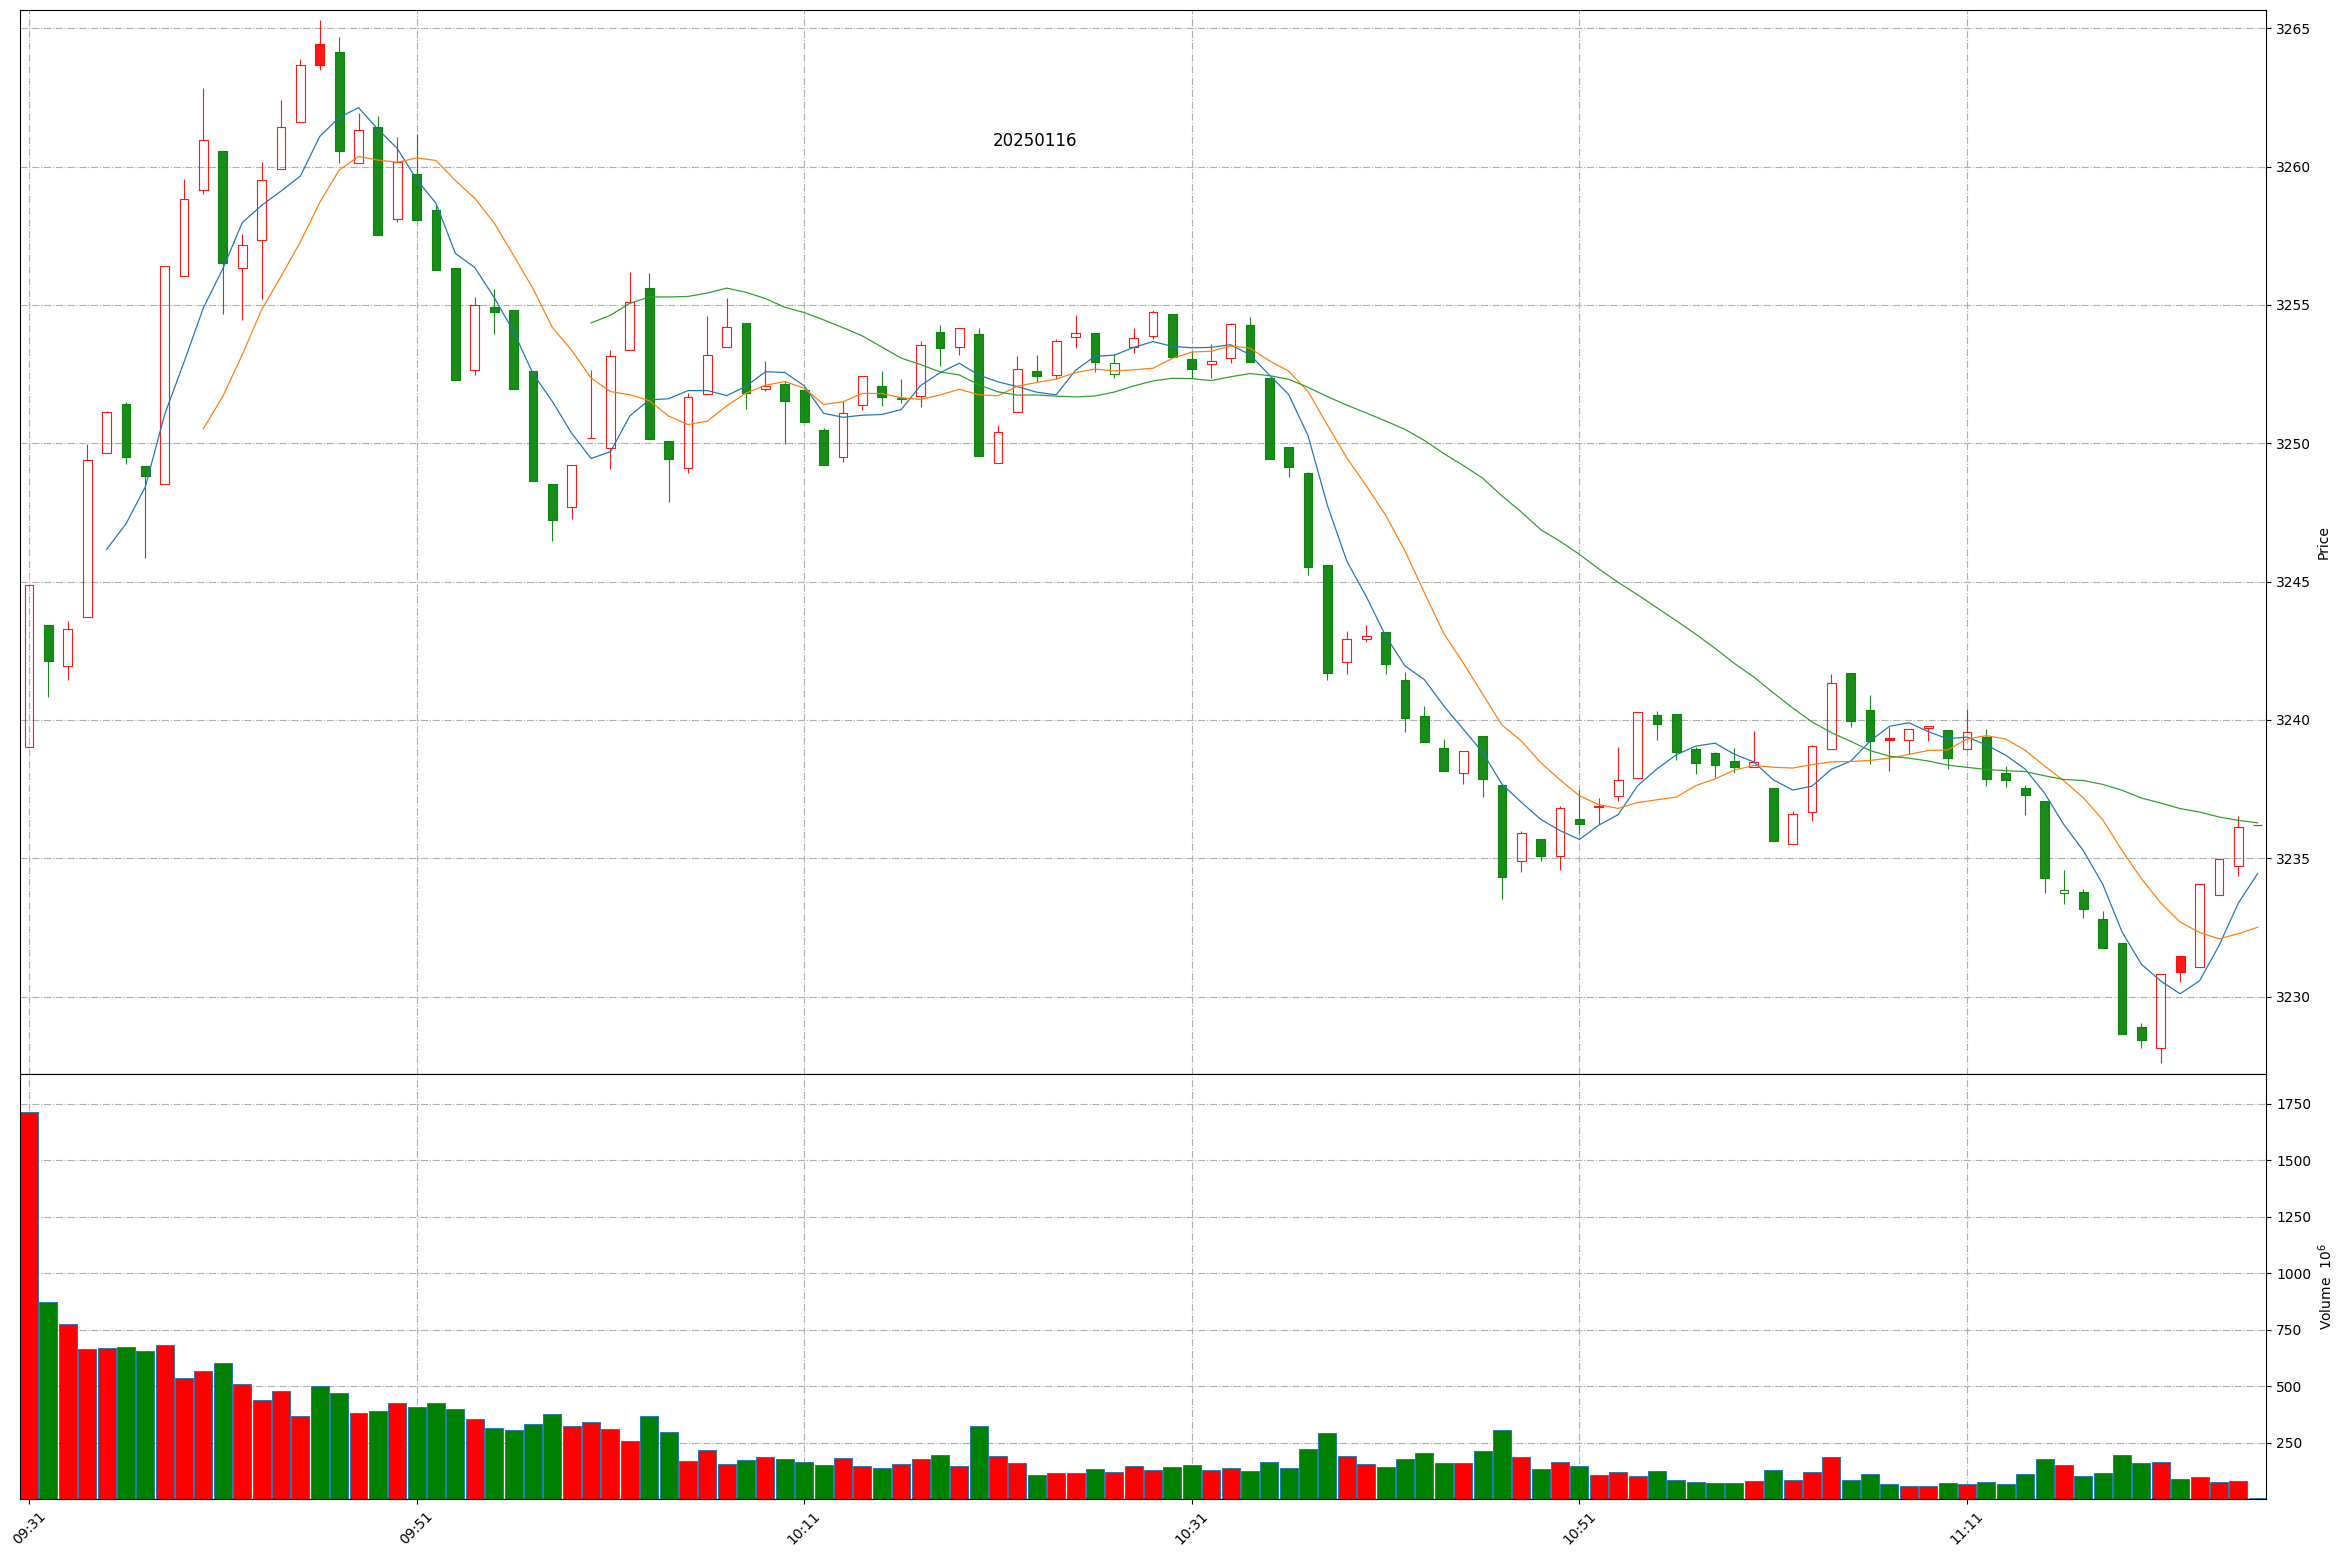
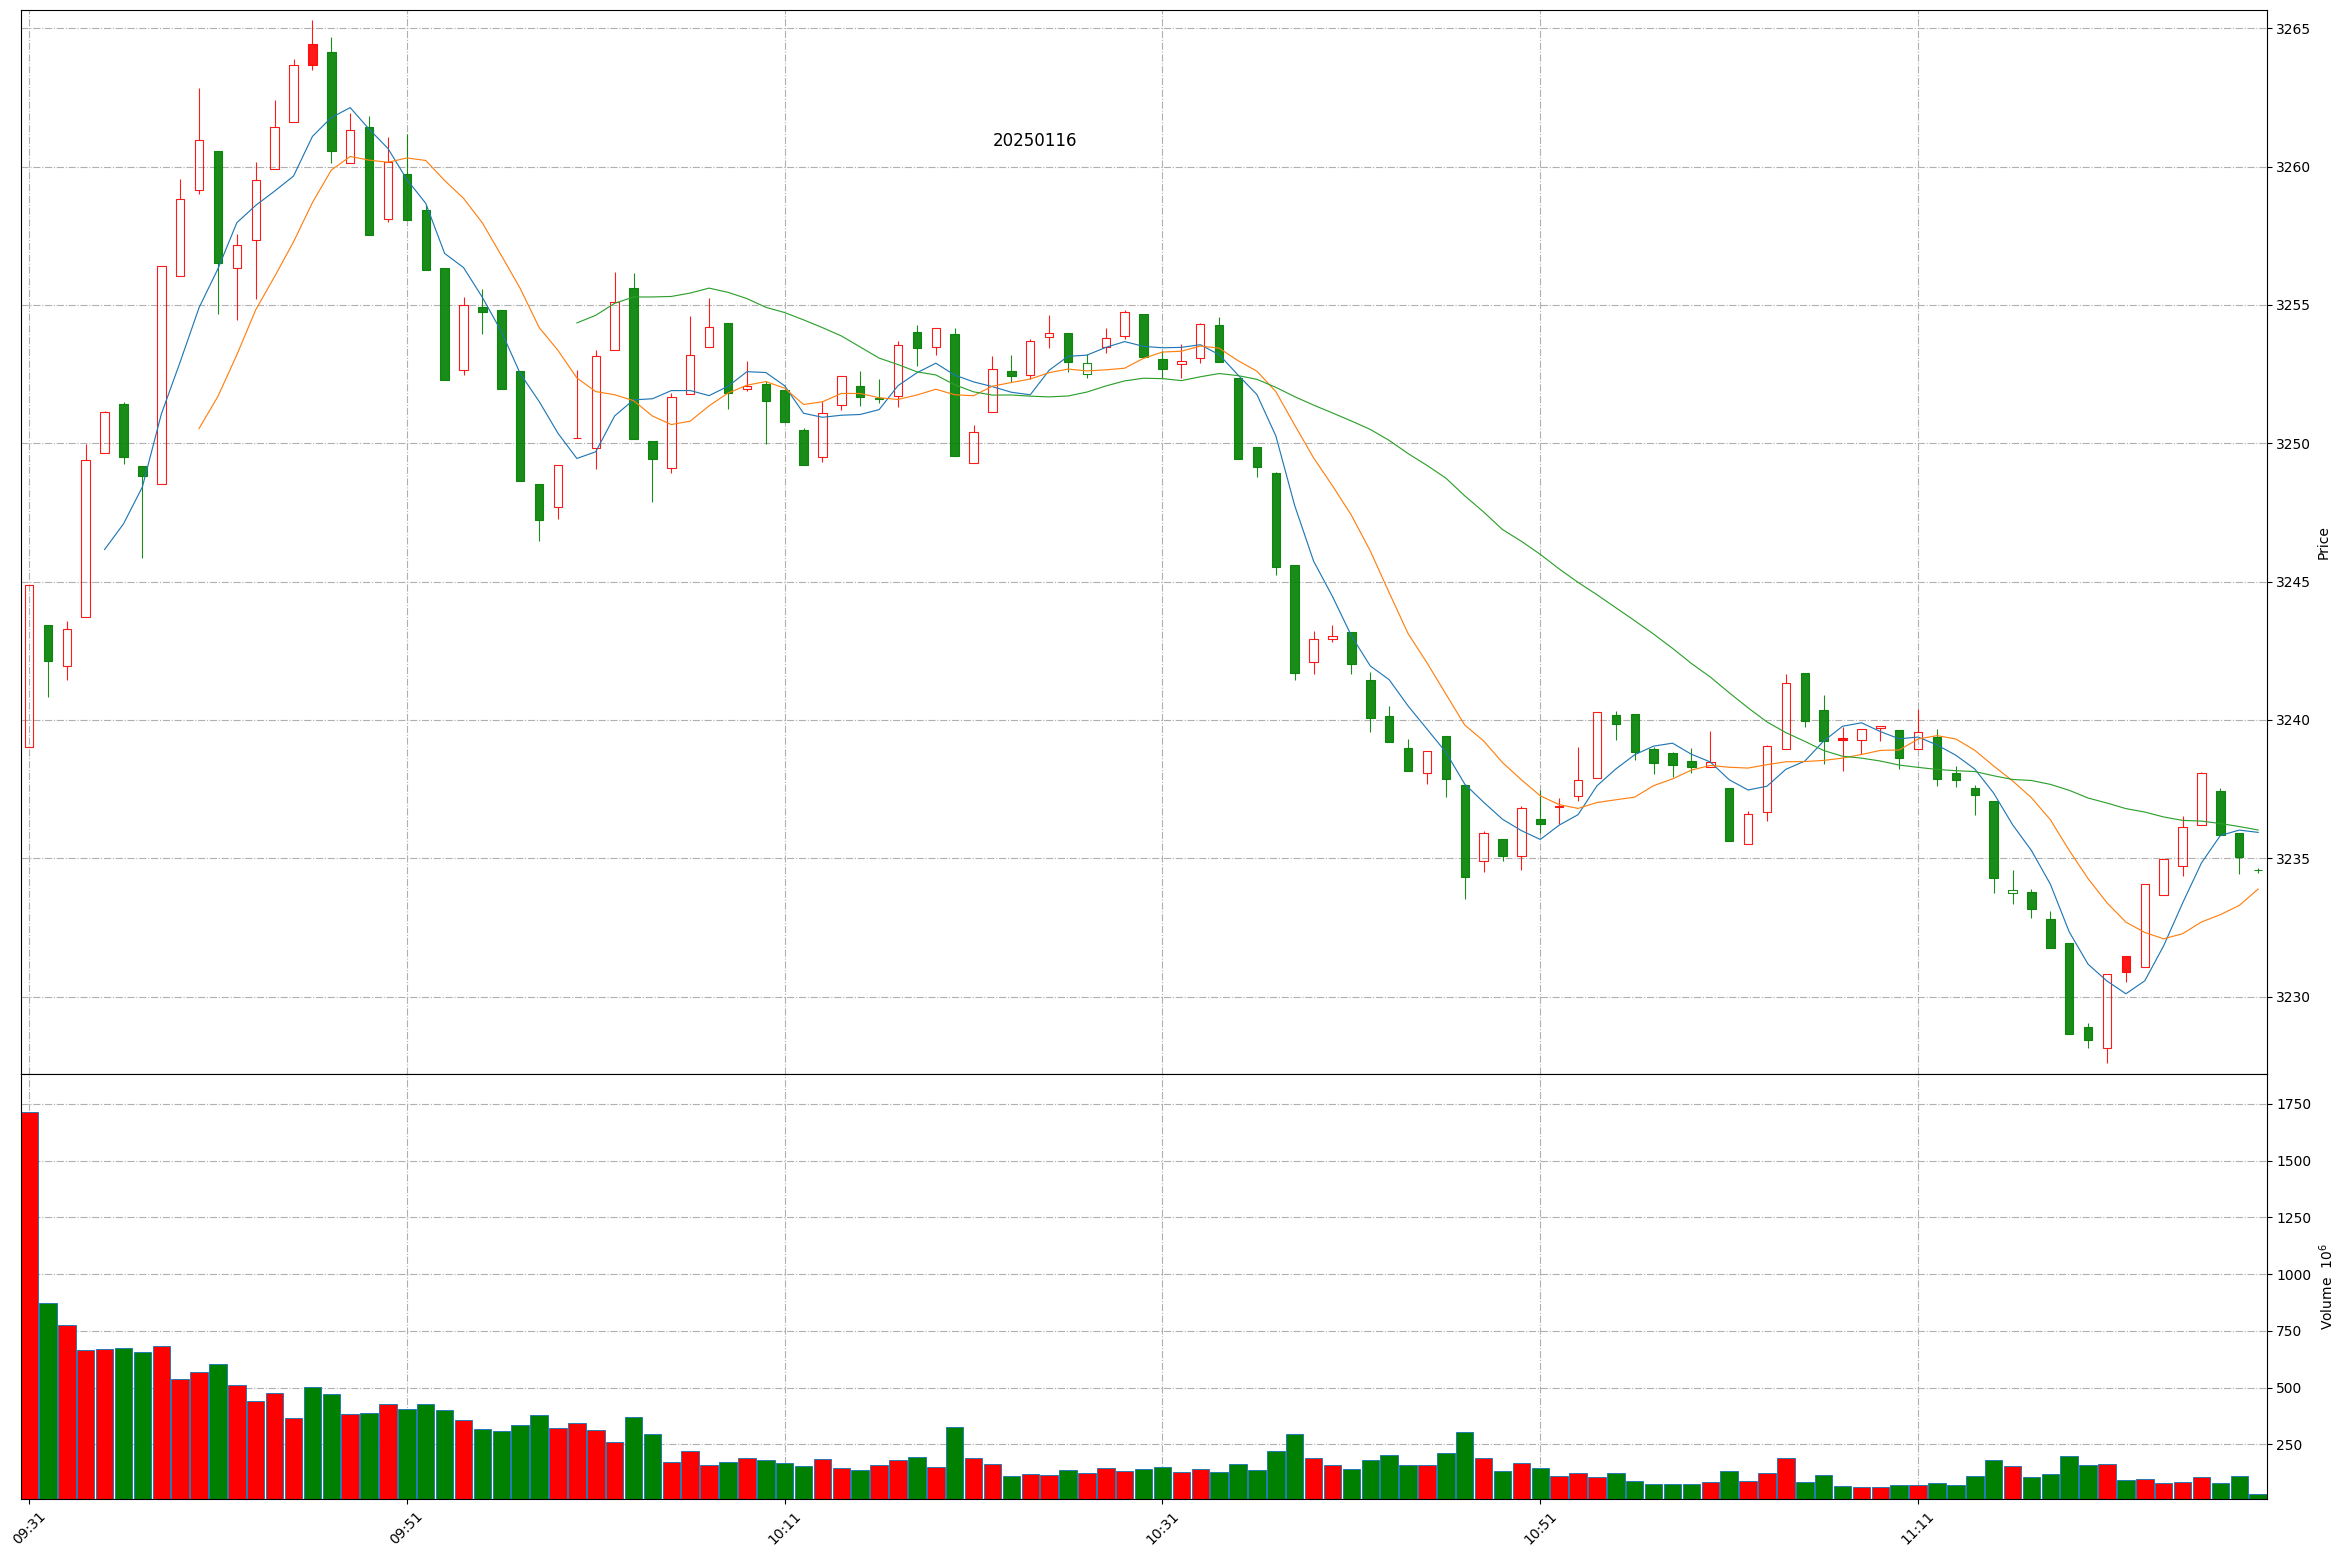
Github action update at 2025-01-16 11:28:40.

Changed region(s): [[0.0311, 0.0308, 0.965, 0.6782], [0.0311, 0.8632, 0.965, 0.9865], [0.965, 0.8015, 0.9962, 0.8632]]

diff --git a/README.md b/README.md
@@ -1,11 +1,11 @@
 
 # Daily-A-share-market-quotes 每日 A 股指数（5min 更新）- 20250116
 
-### 上证指数 20250116 11:25
+### 上证指数 20250116 11:28
 ![](./fig/2025/1/20250116-sh000001.png)
 
-### 深证成指 20250116 11:25
+### 深证成指 20250116 11:28
 ![](./fig/2025/1/20250116-sz399001.png)
 
-### 北证50 20250116 11:25
+### 北证50 20250116 11:28
 ![](./fig/2025/1/20250116-bj899050.png)
